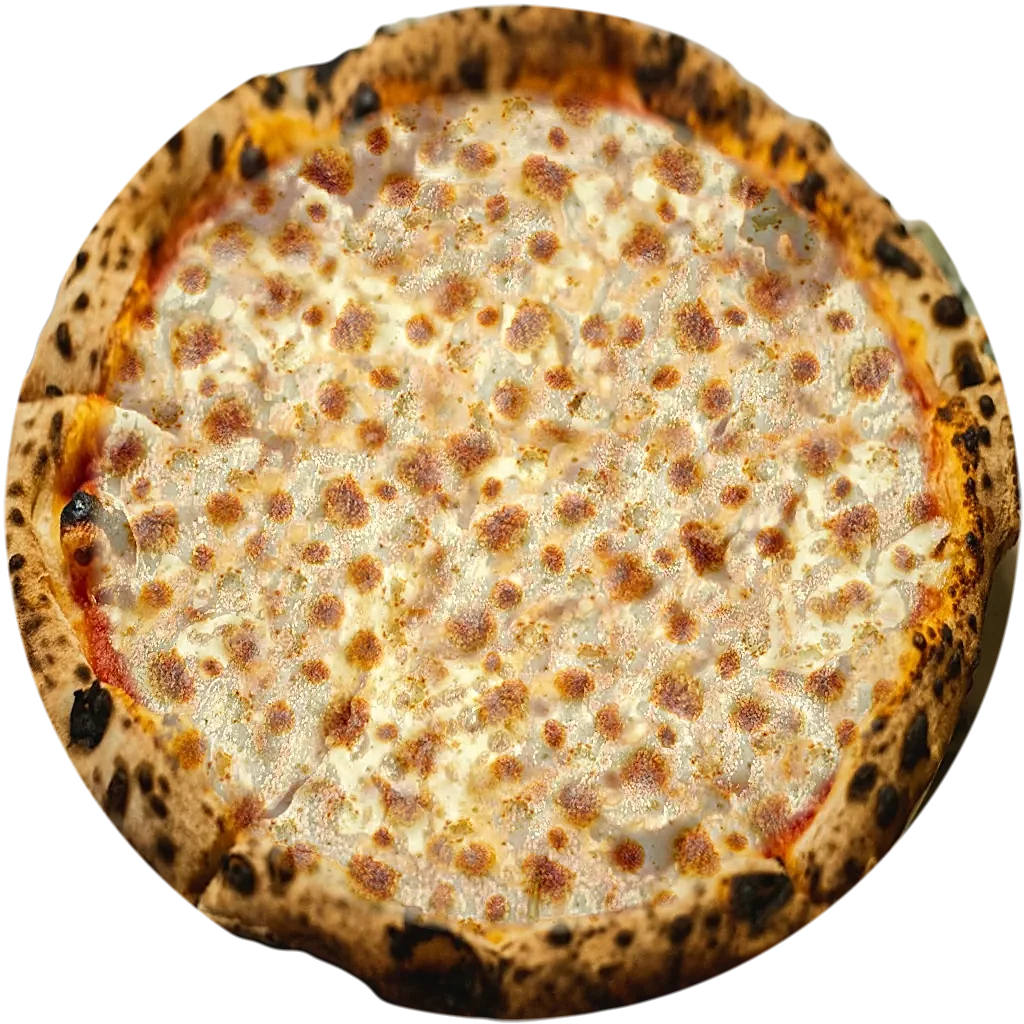
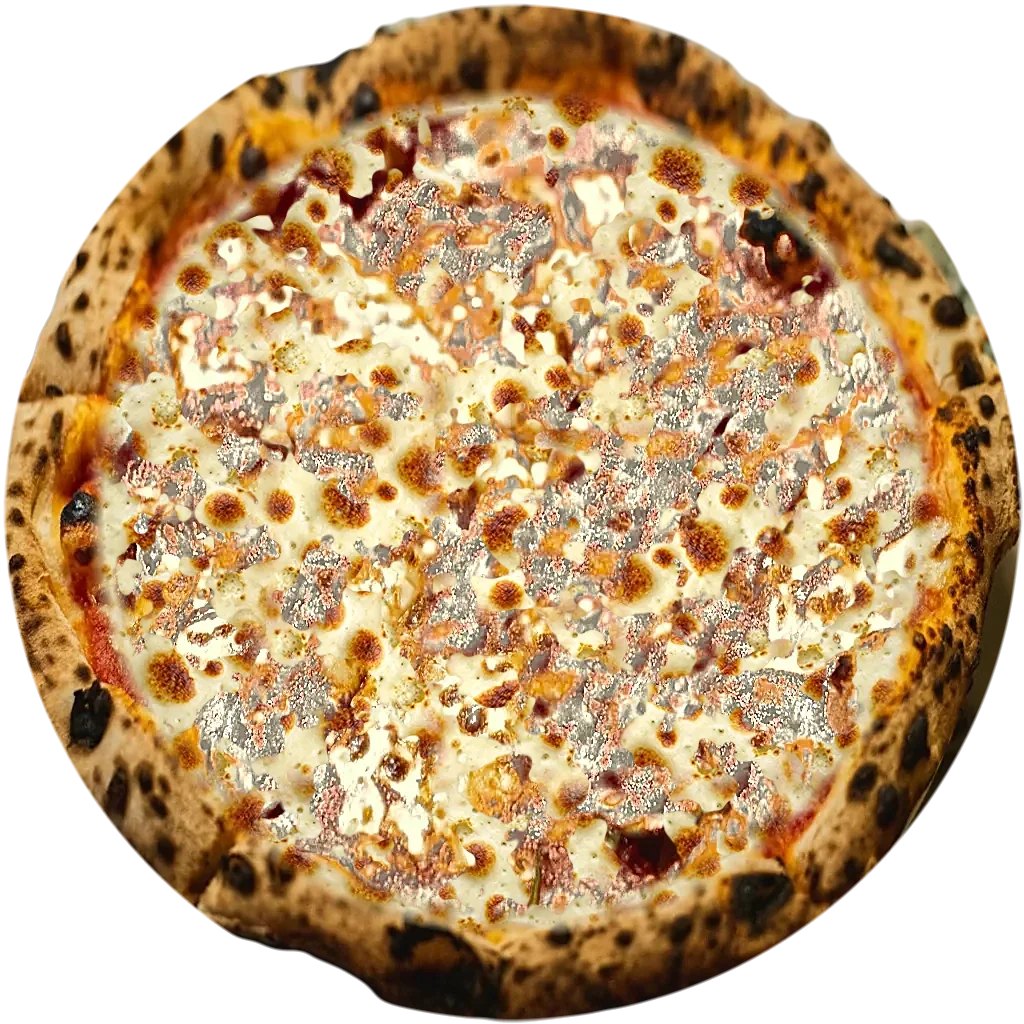
Pizza builder: light, regular and extra cheese now look different (#47)
- Raw build: light is a sparse scatter with sauce showing, extra buries the sauce
- Baked: light shows islands of cheese on sauce, extra is fully covered and more blistered; red sauce regular now has proper coverage

Claude-Session: https://claude.ai/code/session_01SD9EajBXtQV1MLBbZTsyoU

diff --git a/src/pizza/PizzaArt.tsx b/src/pizza/PizzaArt.tsx
@@ -117,9 +117,9 @@ export function PizzaArt({ config, size = 320, className = '', animate = false, 
               {pic('raw/dough')}
               {stage >= 1 && config.sauce !== 'none' && <g key={config.sauce} className={animate ? 'pz-spread' : undefined}>{pic(`raw/sauce-${config.sauce}`)}</g>}
               {stage >= 2 && config.cheese !== 'none' && (
-                <g key={config.cheese} className={animate ? 'pz-melt' : undefined} style={{ opacity: config.cheese === 'light' ? 0.7 : 1, filter: config.cheese === 'vegan' ? 'saturate(0.4) brightness(1.05)' : undefined }}>
-                  {pic('raw/cheese')}
-                  {config.cheese === 'extra' && <g transform="rotate(137)">{pic('raw/cheese')}</g>}
+                <g key={config.cheese} className={animate ? 'pz-melt' : undefined} style={{ filter: config.cheese === 'vegan' ? 'saturate(0.4) brightness(1.05)' : undefined }}>
+                  {/* Light is a sparse scatter with the sauce showing; extra buries the sauce. */}
+                  {pic(config.cheese === 'light' ? 'raw/cheese-light' : config.cheese === 'extra' ? 'raw/cheese-extra' : 'raw/cheese')}
                 </g>
               )}
               {/* The oven: the baked photo fades in over the raw pie. */}
